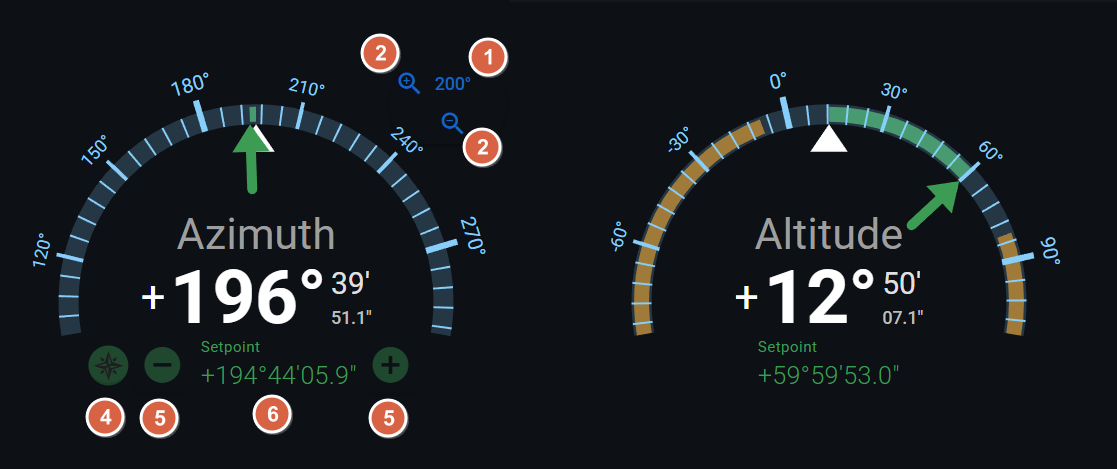
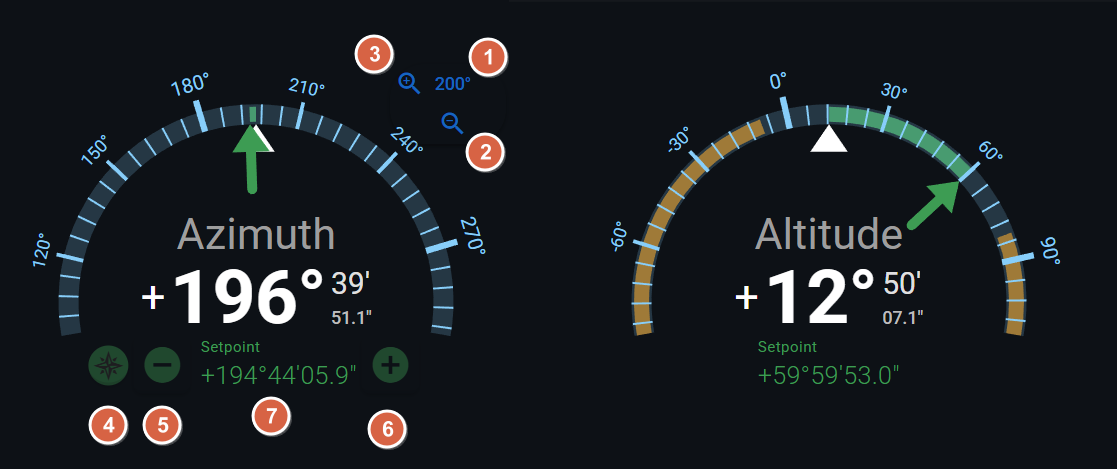
fix(docs): further refinement of dashboard docs

diff --git a/docs/pilot.md b/docs/pilot.md
@@ -186,7 +186,7 @@ The Status Indicator (a status chip in the top right-hand corner of the Dashboar
 *   **② Slewing:** The mount is executing a manual slew command.
 *   **③ Rotating:** The mount is actively changing its rotation angle/position angle.
 *   **④ Tracking:** The mount's tracking function is currently enabled. It will be tracking at the current tracking rate, either sidereal, lunar, solar, king or custom.
-*   **⑤ Guiding:** The mount's has received a puls-guiding command and adjusting its tracking accordingly.
+*   **⑤ Guiding:** The mount's has received a pulse-guiding command and adjusting its tracking accordingly.
 
 ### Motor Indicators
 
@@ -195,14 +195,37 @@ The dashboard shows any **activity on the motors** and the current **M1, M2, and
 ![Dashboard motors](images/dashboard-motors.png)
 
 *   **① Motor Label:** The labels M1, M2 and M3 represent the Azimuth, Altitude and Astro axis accordingly.
-*   **② Angular Offset:** The signed angular rotation in decimal degrees that each motor has traveled.
+*   **② Angular Offset:** The signed angular rotation in decimal degrees that each motor has traveled from its home or zero position.
 *   **③ Motor Activity:** The orbiting dot, represents motion in the corresponding axis. It rotates in the direction and speed of the motors motion. The speed is exegerated for slow motion so very fine movement can be seen. 
 
 
 ### Radial Dials
-The radial dials are a core part of the dashboard, designed to be flexible and interactive.
+The radial dials are a core part of the dashboard, designed to be flexible and interactive. They provide a quick representation of the current orientation of the mount, either in geographic or equatorial co-ordinates. 
 
 ![Dashboard radial dial](images/dashboard-dial1.png)
+*   **① Scale Label:** 
+*   **② Scale Bar:**
+*   **③ Warning Bar:** 
+*   **④ Deviation Bar:**
+*   **⑤ SP Pointer:** 
+*   **⑥ PV Pointer:**
+*   **⑦ PV Readout:**
+*   **⑧ SP Readout:**
+
+<br>
+
+When you hover your mouse or tap your finger on a radial dial, additional buttons will appear allowing you to interact with that co-ordinate.
+
+![Dashboard radial dial active](images/dashboard-dial2.png)
+
+
+* **① Range Readout:**
+* **② Increase Range:**
+* **③ Decrease Range:**
+* **④ Floating Action Buttons:**
+* **⑤ SP Decrease:**
+* **⑥ SP Increase:**
+* **⑦ SP Data Entry:**
 
 *   **Range Indication:** The dials display the range, which can be seen as the **zoom level**. The range indicates the total angle displayed from one side to the other (e.g., six degrees across the dial).
 *   **Range Adjustment:** You can adjust the zoom or range of the dials. On a desktop, you can use a mouse to **zoom in and zoom out**. The dials can zoom far in, allowing users to see slight movements down to **arc seconds**.
@@ -213,25 +236,6 @@ The radial dials are a core part of the dashboard, designed to be flexible and i
     *   Clicking on the **scale** provides a very fine resolution for setting the desired movement.
     *   Clicking on the **label** will move the mount directly to that round number.
 
-***
-
-![Dashboard radial dial active](images/dashboard-dial2.png)
-
-### Radial Dials
-* **Scale Label:**
-* **Scale Bar:**
-* **Warning Bar:**
-* **Deviation Bar:**
-* **SP Indicator:**
-* **PV Indicator:**
-* **SP Readout:**
-* **PV Readout:**
-
-* **Range Readout:**
-* **Range Adjust:**
-* **Floating Action Buttons:**
-* **Slew Buttons:**
-* **SP Data Entry:**
 
 
 **Conceptual Insight:** The Alpaca Pilot Dashboard acts as the primary cockpit for the Polaris mount, translating the mount's complex multi-axis motor movements (M1, M2, M3 motor angles) and celestial mechanics (RA/Dec/PA) into intuitive, real-time feedback (Status Indicators and Motor Indicators) and precise control mechanisms (Radial Dials and Action Buttons). It functions like a sophisticated flight instrument panel for an advanced astrophotographer, allowing control from the microscopic (arc-second precision via zooming radial dials) to the macroscopic (instant GOTO commands).
